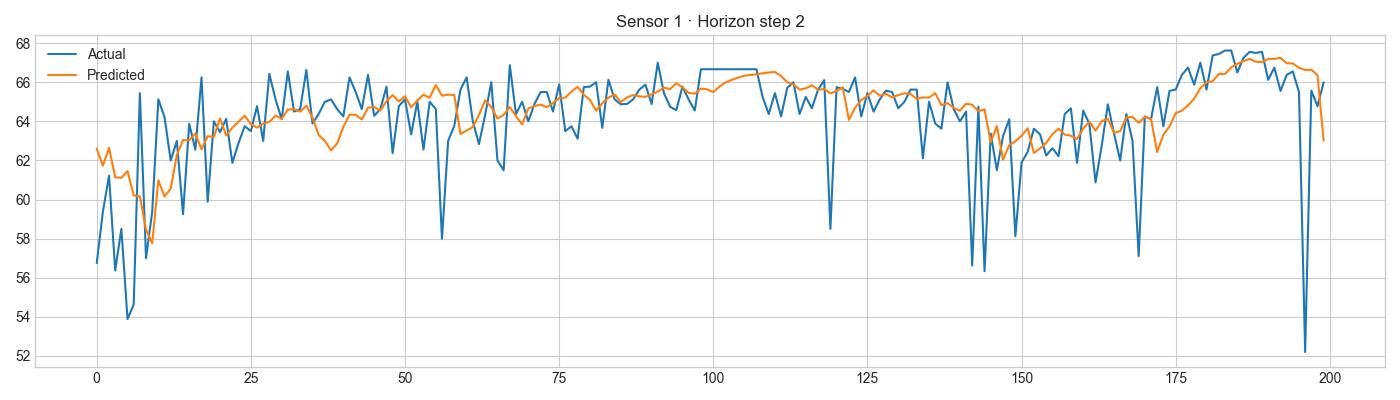
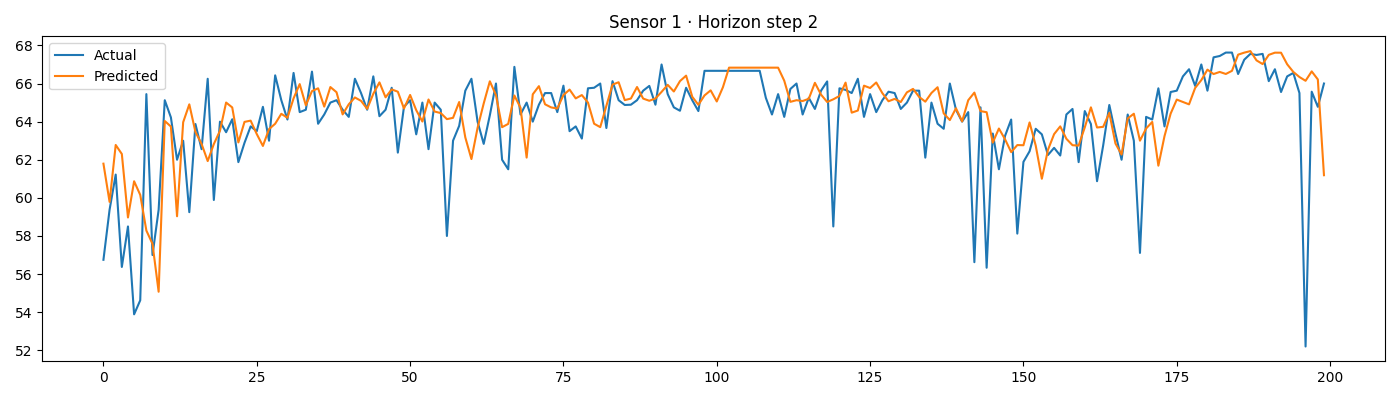
Added graphwavenet experiment

diff --git a/stgnns.py b/stgnns.py
@@ -19,6 +19,7 @@ from tsl.metrics.torch import MaskedMAE, MaskedMAPE, MaskedMSE
 from tsl.engines import Predictor
 from pytorch_lightning.loggers import TensorBoardLogger
 from pytorch_lightning.callbacks import ModelCheckpoint
+from tsl.nn.models.stgn import GraphWaveNetModel
 
 # --------------------------------------------------
 # Configuration / Hyper‑parameters
@@ -131,19 +132,20 @@ class TimeThenSpaceModel(nn.Module):
 # Plot helpers
 # --------------------------------------------------
 
-def plot_adjacency_heatmap(adj, fname="adjacency_heatmap.png"):
+def plot_adjacency_heatmap(adj, model_name):
     plt.figure(figsize=(10, 8))
     sns.heatmap(adj, cmap="viridis")
-    plt.title("Adjacency Matrix Heatmap")
+    plt.title(f"({model_name.upper()}) Adjacency Matrix Heatmap")
     plt.tight_layout()
+    fname = f"{model_name}_adjacency_heatmap.png"
     plt.savefig(fname)
     plt.close()
     print(f"Saved adjacency heatmap → {fname}")
 
 
-def plot_metric_single(df: pd.DataFrame, metric: str):
+def plot_metric_single(df: pd.DataFrame, metric: str, model_name: str):
     """Bar plot of a single metric vs horizon."""
-    title = f"{metric.upper()} vs Prediction Horizon"
+    title = f"({model_name.upper()}) {metric.upper()} vs Prediction Horizon"
     plt.figure(figsize=(6, 5))
     df[metric].plot(kind="bar")
     plt.title(title)
@@ -151,41 +153,35 @@ def plot_metric_single(df: pd.DataFrame, metric: str):
     plt.ylabel(metric.upper())
     plt.xticks(rotation=0)
     plt.tight_layout()
-    fname = f"{metric.lower()}_vs_horizon.png"
+    fname = f"{model_name}_{metric.lower()}_vs_horizon.png"
     plt.savefig(fname)
     plt.close()
     print(f"Saved {title} → {fname}")
 
 
-def plot_actual_vs_predicted(actual, pred, sensor, step, length=200):
+def plot_actual_vs_predicted(actual, pred, sensor, step, model_name, length=200):
     plt.figure(figsize=(14, 4))
     plt.plot(actual[:length, step, sensor, 0], label="Actual")
     plt.plot(pred[:length, step, sensor, 0], label="Predicted")
-    plt.title(f"Sensor {sensor} · Horizon step {step}")
+    plt.title(f"({model_name.upper()}) Sensor {sensor} · Horizon step {step}")
     plt.legend()
     plt.tight_layout()
-    fname = f"sensor{sensor}_h{step}.png"
+    fname = f"sensor{sensor}_h{step}_{model_name}.png"
     plt.savefig(fname)
     plt.close()
     print(f"Saved {fname}")
 
 
 # --------------------------------------------------
-# Main
+# Experiment runner
 # --------------------------------------------------
 
-def main():
-    print(f"tsl {tsl.__version__} | torch {torch.__version__}")
-    plt.style.use("seaborn-v0_8-whitegrid")
+def run_experiment(model, dm, model_name):
+    """Generic function to run a training and testing experiment."""
+    print("=" * 60)
+    print(f"Running experiment for model: {model_name}")
+    print("=" * 60)
 
-    dm = create_datamodule()
-
-    model = TimeThenSpaceModel(input_size=dm.n_channels,
-                               n_nodes=dm.n_nodes,
-                               horizon=dm.horizon,
-                               hidden_size=HIDDEN_SIZE,
-                               rnn_layers=RNN_LAYERS,
-                               gnn_kernel=GNN_KERNEL)
     print_model_size(model)
 
     loss_fn = MaskedMAE()
@@ -209,7 +205,7 @@ def main():
         metrics=metrics,
     )
 
-    logger = TensorBoardLogger("logs", "stgnn", "v_single_metrics")
+    logger = TensorBoardLogger("logs", name=model_name)
     ckpt_cb = ModelCheckpoint(
         dirpath=f"logs/{logger.name}/{logger.version}",
         save_top_k=1, monitor="val_mae", mode="min")
@@ -228,7 +224,7 @@ def main():
 
     predictor.freeze()
     test_res = trainer.test(predictor, datamodule=dm, ckpt_path="best", verbose=False)[0]
-    print("Test metrics:", test_res)
+    print(f"Test metrics for {model_name}:", test_res)
 
     # --------------------------------------------------
     # Build performance DataFrame & plot each metric separately
@@ -241,8 +237,11 @@ def main():
         "mape": [test_res["test_mape"]]*3,
     }).set_index("horizon")
 
+    print("\nAverage Performance Metrics Across All Sensors:")
+    print(perf)
+
     for m in ["mae", "mse", "mape"]:
-        plot_metric_single(perf, m)
+        plot_metric_single(perf, m, model_name)
 
     # --------------------------------------------------
     # Prediction sample plots
@@ -256,14 +255,61 @@ def main():
     for s_id in range(min(3, dm.n_nodes)):
         for label, h in steps.items():
             if h < preds.shape[1]:
-                plot_actual_vs_predicted(actual, preds, sensor=s_id, step=h)
+                plot_actual_vs_predicted(actual, preds, sensor=s_id, step=h, model_name=model_name)
 
     # --------------------------------------------------
     # Adjacency heatmap
     # --------------------------------------------------
     adj = edge_index_to_adj(dm.edge_index, dm.edge_weight).cpu().numpy()
-    plot_adjacency_heatmap(adj)
+    plot_adjacency_heatmap(adj, model_name)
+
+
+# --------------------------------------------------
+# Main
+# --------------------------------------------------
+
+def tts():
+    """Run TimeThenSpaceModel experiment."""
+    print(f"tsl {tsl.__version__} | torch {torch.__version__}")
+    plt.style.use("seaborn-v0_8-whitegrid")
+
+    dm = create_datamodule()
+
+    model = TimeThenSpaceModel(input_size=dm.n_channels,
+                               n_nodes=dm.n_nodes,
+                               horizon=dm.horizon,
+                               hidden_size=HIDDEN_SIZE,
+                               rnn_layers=RNN_LAYERS,
+                               gnn_kernel=GNN_KERNEL)
+    
+    run_experiment(model, dm, "tts")
+
+
+def graphwavenet():
+    """Run GraphWaveNetModel experiment."""
+    dm = create_datamodule()
+    model = GraphWaveNetModel(
+        input_size=dm.n_channels,
+        output_size=dm.n_channels,  # Assuming prediction of all input features
+        horizon=DATA_HORIZON,
+        n_nodes=dm.n_nodes,
+        hidden_size=HIDDEN_SIZE,
+        ff_size=256,                 # Default value
+        n_layers=RNN_LAYERS,         # Using existing global RNN_LAYERS
+        temporal_kernel_size=2,      # Default value
+        spatial_kernel_size=GNN_KERNEL, # Using existing global GNN_KERNEL
+        learned_adjacency=True,      # Default value
+        emb_size=10,                 # Default value for learned_adjacency
+        dilation=2,                  # Default value
+        dilation_mod=2,              # Default value
+        norm='batch',                # From use_batch_norm=True
+        dropout=0.1,                 # Retained existing value
+        exog_size=0                  # Default value
+    )
+    
+    run_experiment(model, dm, "graphwavenet")
 
 
 if __name__ == "__main__":
-    main()
+    tts()
+    graphwavenet()
